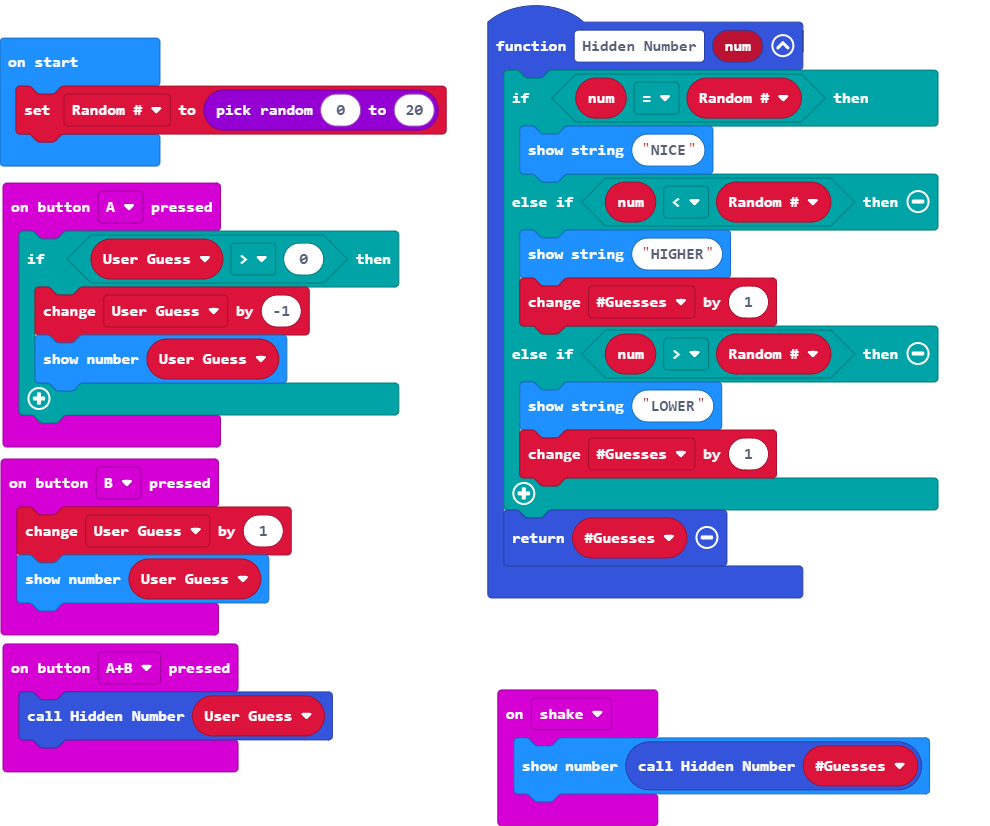
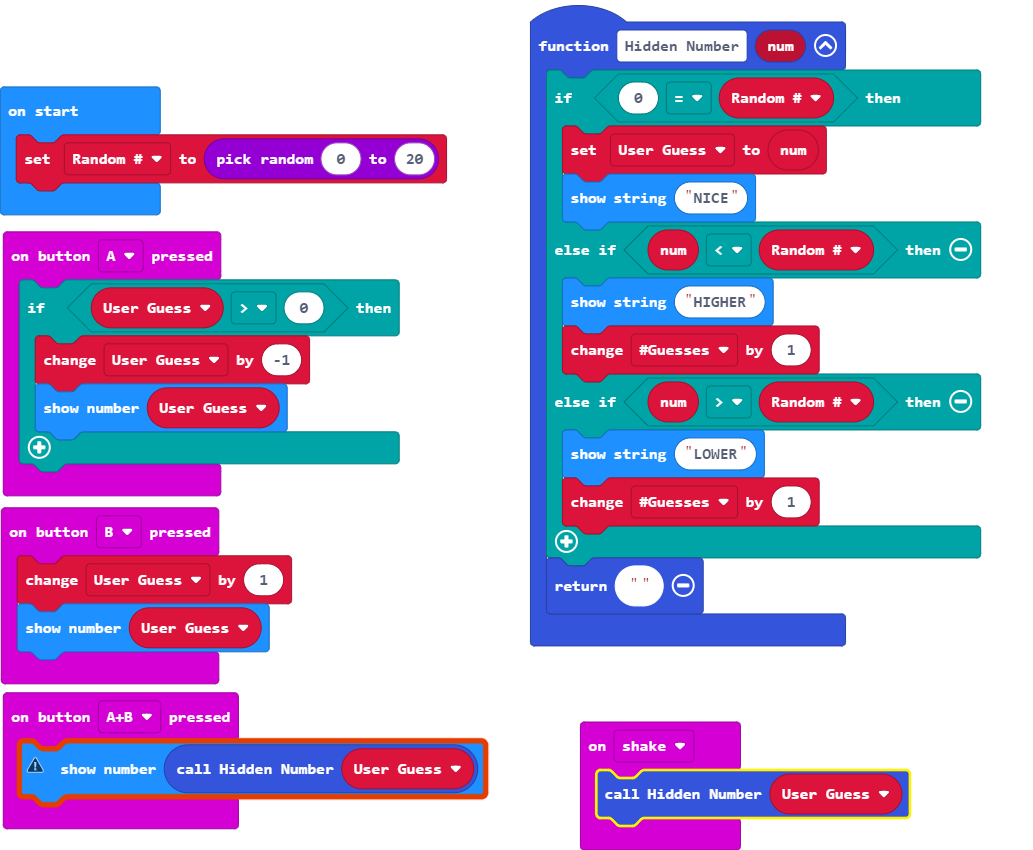
Update pxt.json, main.blocks, main.ts

diff --git a/main.ts b/main.ts
@@ -1,5 +1,6 @@
 function Hidden_Number (num: number) {
-    if (num == Random_) {
+    if (0 == Random_) {
+        User_Guess = num
         basic.showString("NICE")
     } else if (num < Random_) {
         basic.showString("HIGHER")
@@ -8,7 +9,7 @@ function Hidden_Number (num: number) {
         basic.showString("LOWER")
         Guesses += 1
     }
-    return Guesses
+    return ""
 }
 input.onButtonPressed(Button.A, function () {
     if (User_Guess > 0) {
@@ -17,16 +18,16 @@ input.onButtonPressed(Button.A, function () {
     }
 })
 input.onButtonPressed(Button.AB, function () {
-    Hidden_Number(User_Guess)
+    basic.showNumber(Hidden_Number(User_Guess))
 })
 input.onButtonPressed(Button.B, function () {
     User_Guess += 1
     basic.showNumber(User_Guess)
 })
 input.onGesture(Gesture.Shake, function () {
-    basic.showNumber(Hidden_Number(Guesses))
+    Hidden_Number(User_Guess)
 })
-let User_Guess = 0
 let Guesses = 0
+let User_Guess = 0
 let Random_ = 0
 Random_ = randint(0, 20)
